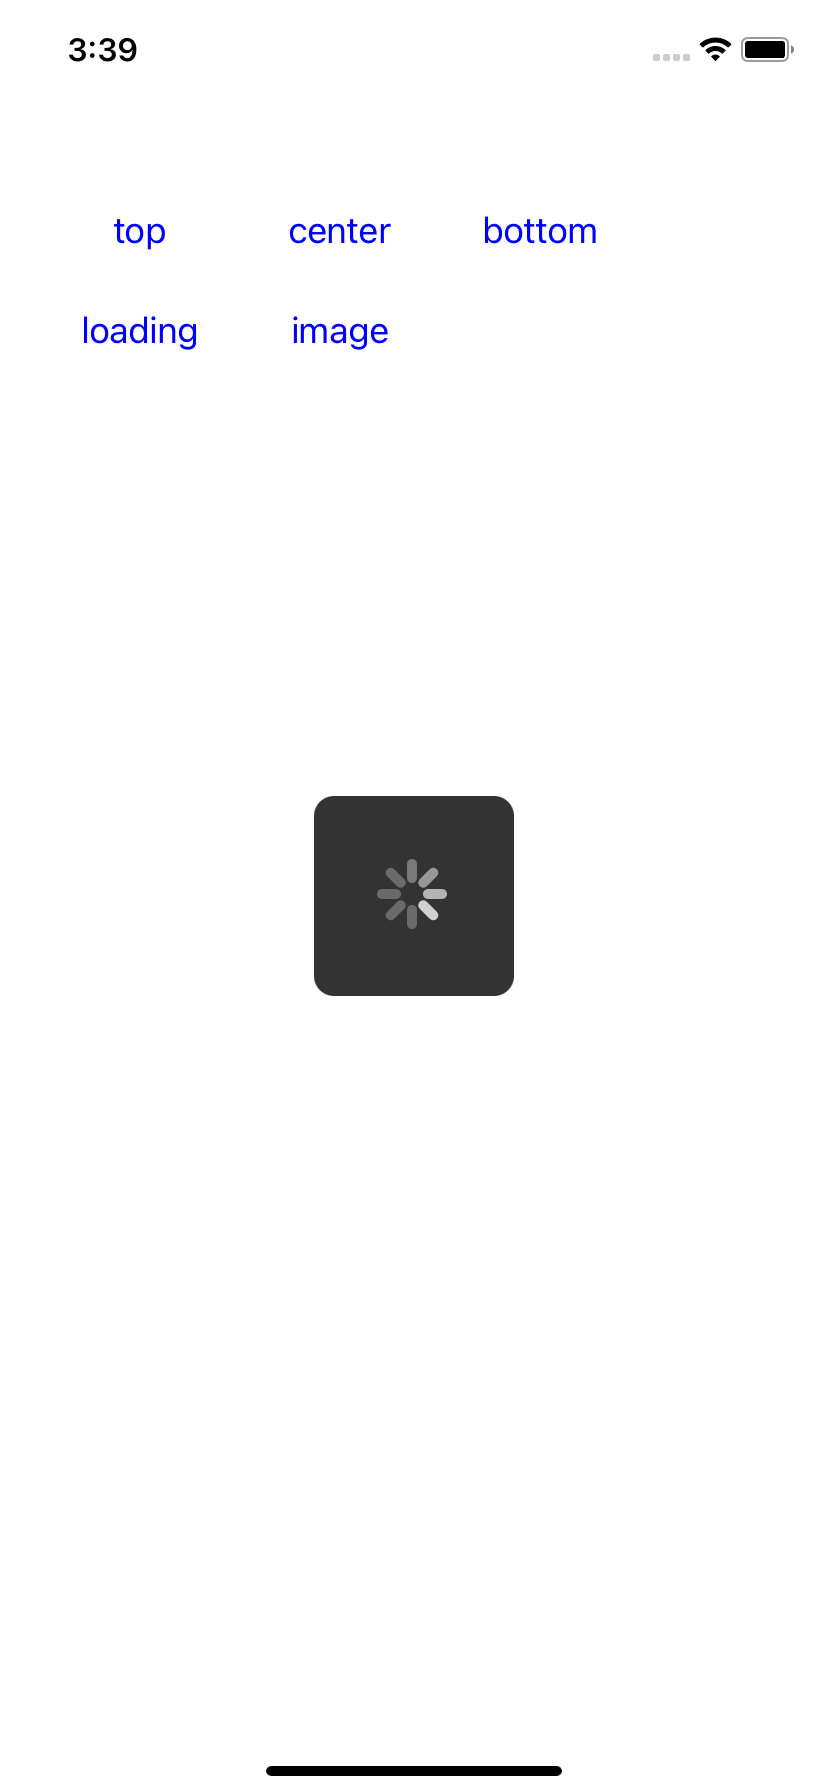
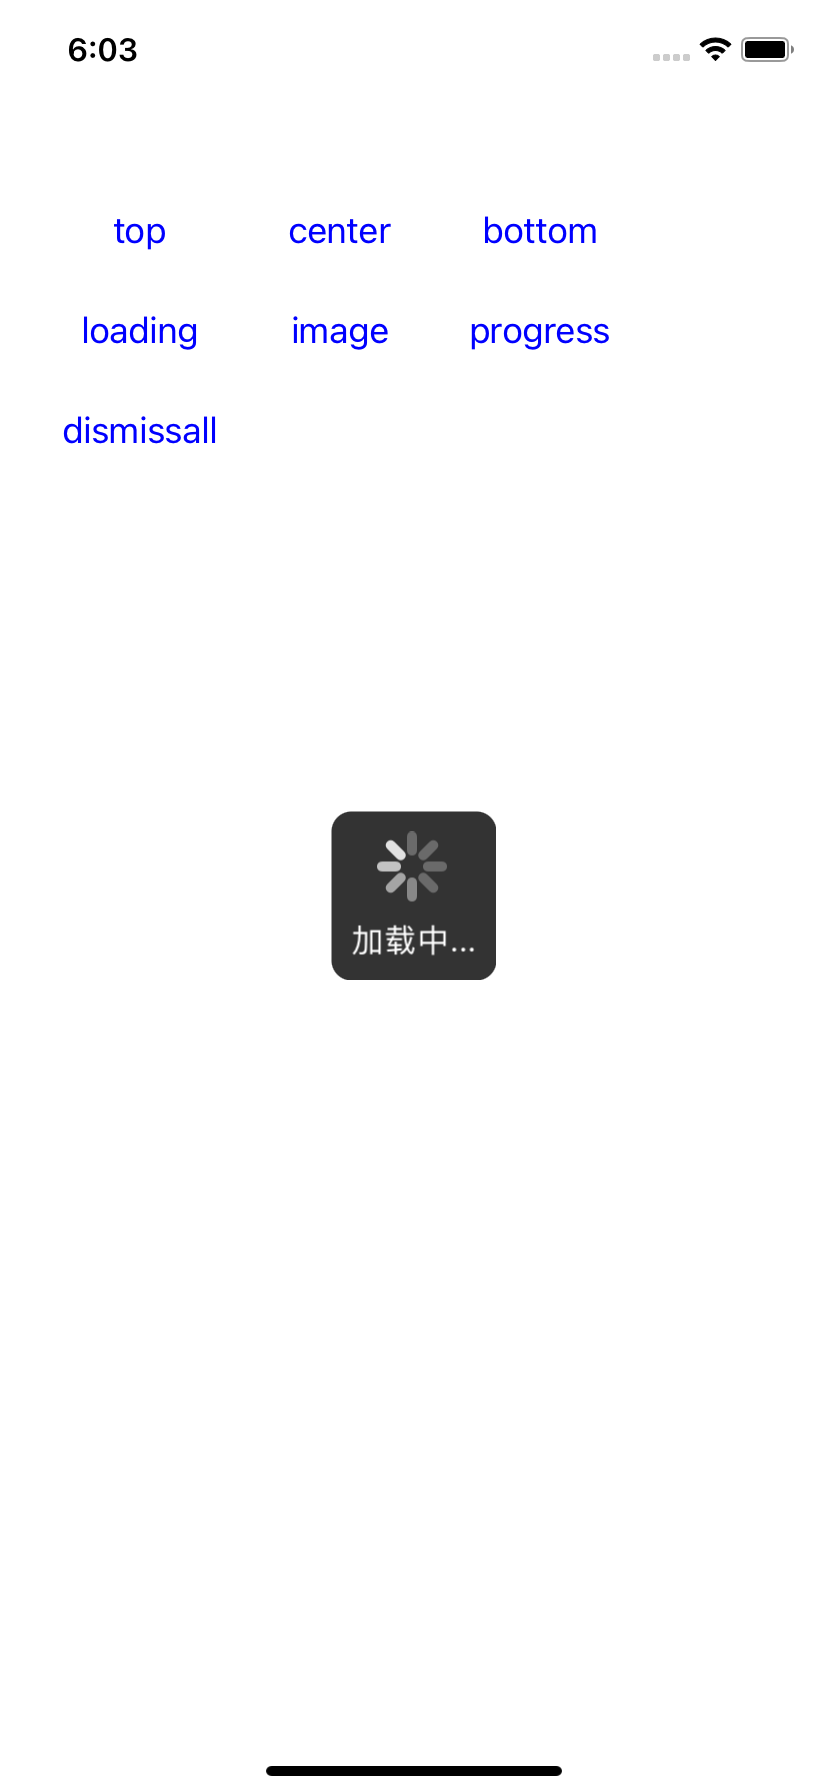
1.2.0

diff --git a/README.md b/README.md
@@ -30,7 +30,7 @@ The LCToast is a comparison of features with [Toast](https://github.com/scalesse
 ### show toast
 
 ```objective-c
-[self.view lc_showToast:@"床前明月光，疑是地上霜。举头望明月，低头思故乡。"];
+[self.view lc_showToastWithMessage:@"床前明月光，疑是地上霜。举头望明月，低头思故乡。"];
 ```
 
 |                      LCToastPositionTop                      |                    LCToastPositionCenter                     |                    LCToastPositionBottom                     |
@@ -40,7 +40,7 @@ The LCToast is a comparison of features with [Toast](https://github.com/scalesse
 ### show image toast
 
 ```objective-c
-[self.view lc_showToast:@"春种一粒粟，秋收万颗子。四海无闲田，农夫犹饿死。锄禾日当午，汗滴禾下土。谁知盘中餐，粒粒皆辛苦。" image:[UIImage imageNamed:@"warning"] position:(LCToastPositionCenter)];
+[self.view lc_showToastWithMessage:@"春种一粒粟，秋收万颗子。四海无闲田，农夫犹饿死。锄禾日当午，汗滴禾下土。谁知盘中餐，粒粒皆辛苦。" image:[UIImage imageNamed:@"warning"] position:(LCToastPositionCenter)];
 ```
 
 <img src="https://github.com/iLiuChang/LCToast/raw/main/Images/toast_image.png" width="300" />
@@ -48,7 +48,7 @@ The LCToast is a comparison of features with [Toast](https://github.com/scalesse
 ### show loading
 
 ```objective-c
-[self.view lc_showLoading];
+[self.view lc_showLoadingWithMessage:@"加载中..."];
 ```
 
 <img src="https://github.com/iLiuChang/LCToast/raw/main/Images/loading.png" width="300" />
@@ -56,7 +56,7 @@ The LCToast is a comparison of features with [Toast](https://github.com/scalesse
 ### show progress
 
 ```objective-c
-[self.view lc_showProgress:0.3];
+[self.view lc_showProgress:0.7 message:@"下载中..."];
 ```
 
 <img src="https://github.com/iLiuChang/LCToast/raw/main/Images/progress.png" width="300" />
